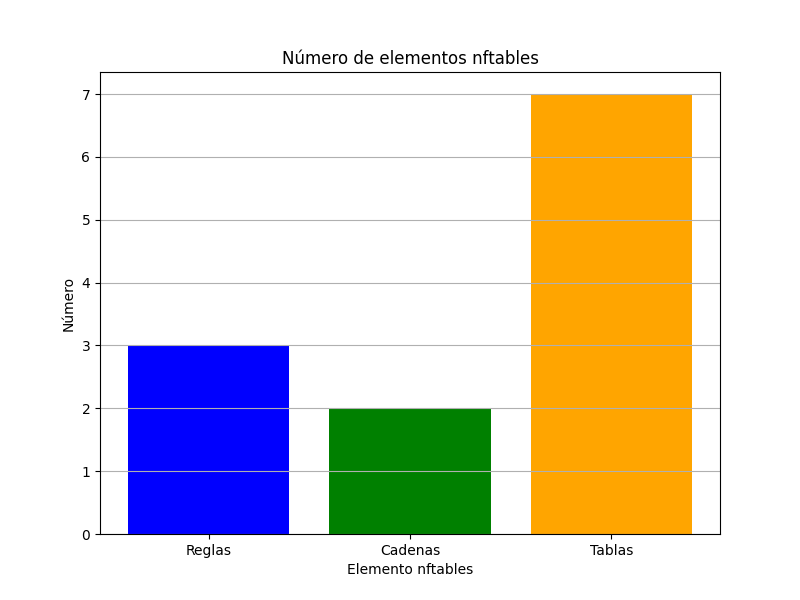
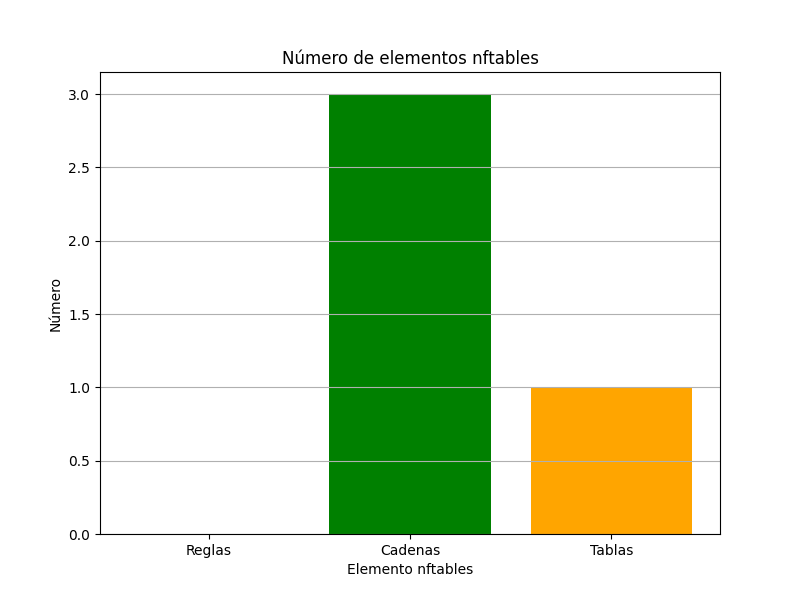
feat: list table, flush table left

diff --git a/nftables-frontend/templates/tables/table.html b/nftables-frontend/templates/tables/table.html
@@ -1,0 +1,45 @@
+{% extends "base.html" %}
+{% block head%}
+{{ super() }}
+{% endblock %}
+{% block content %}
+<div class="container">
+    <h1>Table: {{ table.name }}</h1>
+    <button class="btn btn-primary" onclick="location.href='/add_chain/{{ table.id }}'">Add chain</button>
+    <br></br>
+    <table class="table personal-table">
+        <thead>
+            <tr>
+                <th>Chain</th>
+                <th>Family</th>
+                <th>Description</th>
+                <th>Actions</th>
+            </tr>
+        </thead>
+        <tbody>
+            {% if chains == [] %}
+                <tr>
+                    <td colspan="3">No chains</td>
+                </tr>
+            {% else %}
+            {% for chain in chains %}
+                <tr>
+                    <td><a href="/chain/{{ chain.id }}"> {{ chain.name }}</a></td>
+                    <td>{{ chain.family }}</td>
+                    <td>
+                        {% if chain.description %}
+                            {{ chain.description }}
+                        {% else %}
+                            No description
+                        {% endif %}
+                    </td>
+                    <td>
+                        <button class="btn btn-danger" onclick="location.href='/delete_chain/{{ chain.id }}'">Delete</button>
+                    </td>
+                </tr>
+            {% endfor %}
+            {% endif %}
+        </tbody>
+    </table>
+</div>
+{% endblock %}

diff --git a/nftables-frontend/templates/tables/tables.html b/nftables-frontend/templates/tables/tables.html
@@ -25,7 +25,7 @@
                 {% else %}
                 {% for table in tables %}
                     <tr>
-                        <td>{{ table.name }}</td>
+                        <td><a href="/table/{{ table.id }}"> {{ table.name }}</a></td>
                         <td>{{ table.family }}</td>
                         <td>
                             {% if table.description %}

diff --git a/nftables-frontend/views.py b/nftables-frontend/views.py
@@ -1,6 +1,6 @@
 from flask import Blueprint, render_template, flash, redirect, url_for
 from flask_login import login_user, logout_user, login_required, current_user
-from models import Table, User
+from models import Chain, Rule, Table, User
 from forms.forms import LoginForm, CreateUserForm, TableForm, UpdateUserForm
 import service, api, os, matplotlib
 matplotlib.use('Agg')
@@ -21,7 +21,10 @@ def main_view():
         ip_address = os.popen('hostname -I').read().split(" ")[0] 
         categories = ['Reglas', 'Cadenas', 'Tablas']
         # Get the number of rules, chains and tables
-        values = [3, 2, 7]
+        n_tables = Table.query.count()
+        n_chains = Chain.query.count()
+        n_rules = Rule.query.count()
+        values = [n_rules, n_chains, n_tables]
         plt.figure(figsize=(8, 6))
         plt.bar(categories, values, color=['blue', 'green', 'orange'])
         plt.xlabel('Elemento nftables')
@@ -46,9 +49,26 @@ def users():
 def edit_user(user_id):
     user = service.get_user(user_id)
     form = UpdateUserForm(object=user)
-
-    
     return render_template('users/edit_user.html',user=user, form=form)
+
+@visualization_bp.route('/table/<table_id>')
+def get_table(table_id):
+    table = service.get_table(table_id)
+    chains = api.list_table_request(table.name, table.family)
+ 
+    for chain in chains:
+        print(chain)
+        if(service.check_existing_chain(chain["name"], table_id) == False):
+            hook_type = None
+            priority = None
+            if("hook_type" in chain):
+                hook_type = chain['hook_type']
+            if("priority" in chain):
+                priority = chain['priority']
+            service.insert_chain(chain_name=chain["name"], family=chain["family"], type=chain['type'], policy=chain['policy'], table_id=table_id, hook_type=hook_type, priority=priority)
+    chains = service.get_chains_from_table(table_id)
+    return render_template('tables/table.html', table=table, chains=chains)
+
 
 @creation_bp.route('/edit_user/<user_id>', methods=['POST'])
 def edit_user_post(user_id):
@@ -120,8 +140,7 @@ def add_table_post():
 @creation_bp.route('/delete_table/<table_id>')
 def delete_table(table_id):
     table = Table.query.get(table_id)
-    api.delete_table_request(table.name, table.family)
-    print(table.name)
+    response = api.delete_table_request(table.name, table.family)
     service.delete_table(table_id)
     return redirect('/tables')
 

diff --git a/nftables-frontend/service.py b/nftables-frontend/service.py
@@ -1,4 +1,4 @@
-from models import Table, db, User
+from models import Chain, Table, base_chain, db, User
 from flask_login import LoginManager
 
 login_manager = LoginManager()
@@ -37,6 +37,11 @@ def edit_user(user_id, username, email, role, is_active):
     user.is_active = is_active
     db.session.commit()
     
+def get_table(table_id):
+    table = Table.query.get(table_id)
+    return table
+
+
 def get_users():
     return User.query.all()
 
@@ -69,3 +74,26 @@ def delete_table(table_id):
 
 def get_tables():
     return Table.query.all()
+
+def insert_chains(table_id, chains):
+    table = Table.query.get(table_id)
+    table.chains = chains
+    db.session.commit()
+    
+def insert_chain(chain_name, family,  type, policy, table_id, hook_type=None, priority=None):
+    if(hook_type != None and priority != None):
+        chain = base_chain(name=chain_name, family=family, type=type, policy=policy, table_id=table_id, hook_type=hook_type, priority=priority)
+    else:
+        chain = Chain(name=chain_name, family=family , table_id=table_id, type=type, policy=policy)
+    db.session.add(chain)
+    db.session.commit()
+    
+def check_existing_chain(chain_name, table_id):
+    chain = Chain.query.filter_by(name=chain_name, table_id=table_id).first()
+    if chain:
+        return True
+    return False
+
+def get_chains_from_table(table_id):
+    table = Table.query.get(table_id)
+    return table.chains

diff --git a/nftables-frontend/api.py b/nftables-frontend/api.py
@@ -20,11 +20,14 @@ def delete_table_request(name, family):
     json_data = {"json_data": {"nftables": [{"delete": {"table":{"name": name, "family": family}}}]}}
     response = requests.post('http://localhost:8000/tables/delete_table', json=json_data)
     if(response.json()["status"] == "success"):
-        return "Success"
+        return "Success", response.json()
     else:
         return "Error deleting table."
     
-
+def list_table_request(name, family):
+    json_data = {"json_data": {"nftables": [{"list": {"table":{"name": name, "family": family}}}]}}
+    response = requests.get('http://localhost:8000/tables/list_table', json=json_data)
+    return parse_chains(response.json()["result"][1]["nftables"])
 
 def format_nftables_config(config_string):
     # Replace escape sequences with actual characters
@@ -39,3 +42,10 @@ def format_nftables_config(config_string):
     # Join the lines back together with newline characters
     formatted_string = '\n'.join(lines)
     return formatted_string
+
+def parse_chains(response):
+    chains = []
+    for item in response:
+        if isinstance(item, dict) and 'chain' in item:
+            chains.append(item['chain'])
+    return chains

diff --git a/nftables-frontend/models.py b/nftables-frontend/models.py
@@ -45,10 +45,32 @@ class Chain(db.Model):
     id = db.Column(db.Integer, primary_key=True)
     name = db.Column(db.String(80), unique=True, nullable=False)
     table_id = db.Column(db.Integer, db.ForeignKey('table.id'), nullable=False)
+    type = db.Column(db.String(120), nullable=False)
+    family = db.Column(db.String(120), nullable=False)
+    policy = db.Column(db.String(120), nullable=False)
     rules = db.relationship('Rule', backref='chain', lazy=True)
 
     def __repr__(self):
         return '<Chain %r>' % self.name
+    
+class user_chain(Chain, db.Model):
+    
+    __tablename__ = 'user_chain'
+    
+    id = db.Column(db.Integer, db.ForeignKey('chain.id'), primary_key=True)
+    
+    def __repr__(self):
+        return '<User_chain %r>' % self.id
+
+class base_chain(Chain, db.Model):
+    
+    __tablename__ = 'base_chain'
+    
+    id = db.Column(db.Integer, db.ForeignKey('chain.id'), primary_key=True)
+    hook_type = db.Column(db.String(120), nullable=False)
+    priority = db.Column(db.Integer, nullable=False)
+    def __repr__(self):
+        return '<Base_chain %r>' % self.id
 
 class Rule(db.Model):
     id = db.Column(db.Integer, primary_key=True)

diff --git a/nftables-parser/tables.py b/nftables-parser/tables.py
@@ -55,3 +55,15 @@ def delete_table(json_data: hug.types.json):
             return {'status': 'success', 'result': result}
     except Exception as e:
         return {'status': 'error', 'message': str(e)}
+    
+@hug.get('/list_table')
+def list_table(json_data: hug.types.json):
+    nft = Nftables()
+    try:
+        result = nft.json_cmd(json_data)
+        if 'error' in result:
+            return {'status': 'error', 'message': result['error']}
+        else:
+            return {'status': 'success', 'result': result}
+    except Exception as e:
+        return {'status': 'error', 'message': str(e)}

diff --git a/README.md b/README.md
@@ -1,4 +1,6 @@
 # nftables-gui
+This is a repository to develop an web interface to enble configuration of nftables via GUI.
+
 Para poder usar este proyecto es necesario instalar python3-nftables, ademas de python3-hug
 Para el correcto funcionamiento es necesario ejecutar el archivo de parseo como administrador
 El usuario que se crea por defecto tiene como credenciales:
